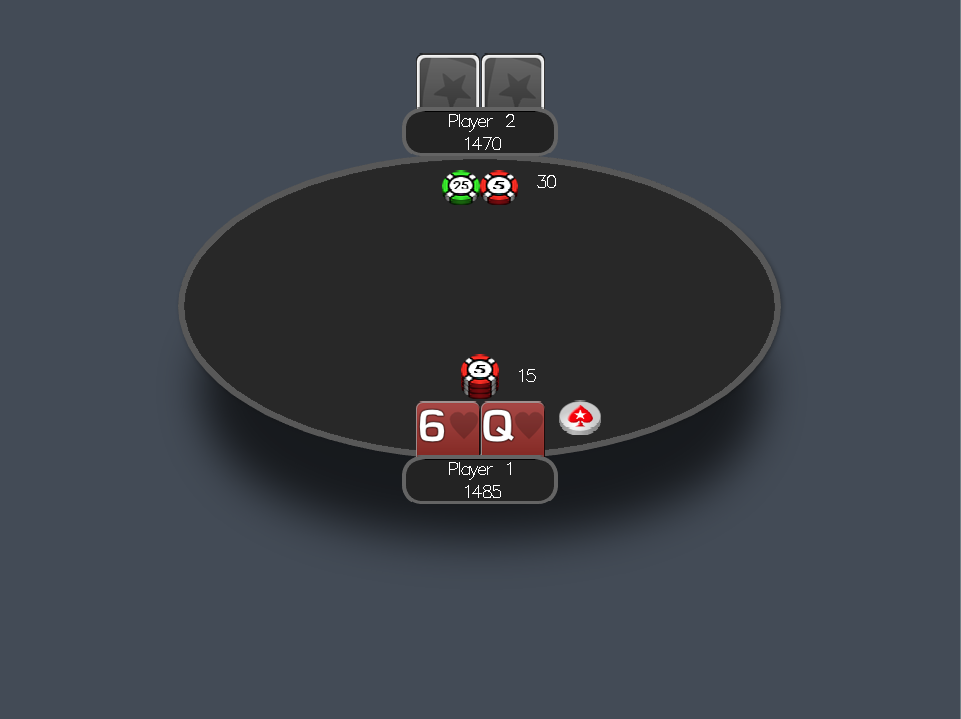
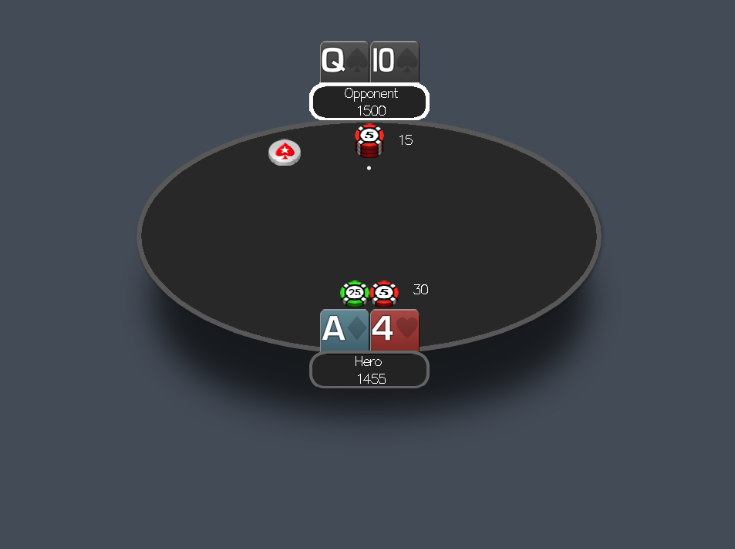
Updated readme to 0.3 build

diff --git a/README.md b/README.md
@@ -11,9 +11,13 @@ List of implemented features:
 - player seats
 - dealing cards
 - posting blinds
+- change of positions
 - bet display in chips
 - time delayed actions
 - bottom & up seatbolds
+- automove on timebank end
+- hightlighting of active player
+- something pretending to handle bet rounds
 - *another not really cool stuff*
 
 ~~Link to huge haddocs here, although no one will really read them...~~
@@ -21,10 +25,10 @@ List of implemented features:
 ## Status
 
 One phrase review: \
-*Do or die trying.*
+*Dead or alive: sleep.*
 
 Nothing really playable here yet,
-but you can at least get some cards.
+but you can at least watch some infinite loop of card dealing.
 
 Developing ...
 
@@ -32,12 +36,12 @@ Developing ...
 
 ## Build and run
 
-Just installed [Stack](https://www.haskellstack.org)?
+First of all - install [Stack](https://www.haskellstack.org).
 
-Then:
+Setup it on first launch:
 
 `stack setup`
 
-For normal run:
+For launching client:
 
 `stack build && stack exec poker`
